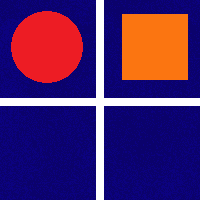
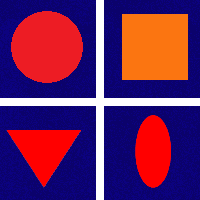
atakowanie 3

Changed region(s): [[0.03, 0.63, 0.42, 0.93], [0.66, 0.57, 0.87, 0.96]]

diff --git a/klient/klient/cPlansza.cpp b/klient/klient/cPlansza.cpp
@@ -234,7 +234,8 @@ void cPlansza::_Dzialaj(int value)
 		if (etapGry == GRA && (bajtyOdebrane > 0))
 		{
 			PrzetworzDane();
-			tabGraczy[0]->PrzyspieszajBohatera(0,0);
+			tabGraczy[wybranyGracz]->PrzyspieszajBohatera(0,0);
+			//tabGraczy[1]->PrzyspieszajBohatera(0,0);
 			//DodajAkcjeDoWyslania();
 			//DodajWiadomoscDoWyslania();
 			WyslijDane();
@@ -286,15 +287,15 @@ void cPlansza::_Klawiatura(unsigned char key, int x, int y)
 		glutTimerFunc(20, Dzialaj, TIMER_KAMERA_SCROLL);
 		break;
 
-	case 'o':
-		tabGraczy[wybranyGracz]->DodajStworka(-900+1800*wybranyGracz, LISTA_STWOREK_KULA);
-		break;
-	case 'p':
-		tabGraczy[wybranyGracz]->DodajStworka(-900+1800*wybranyGracz, LISTA_STWOREK_KWADRAT);
-		break;
-	case 'x':
-		wybranyGracz = !wybranyGracz;
-		break;
+	//case 'o':
+	//	tabGraczy[wybranyGracz]->DodajStworka(-900+1800*wybranyGracz, LISTA_STWOREK_KULA);
+	//	break;
+	//case 'p':
+	//	tabGraczy[wybranyGracz]->DodajStworka(-900+1800*wybranyGracz, LISTA_STWOREK_KWADRAT);
+	//	break;
+	//case 'x':
+	//	wybranyGracz = !wybranyGracz;
+	//	break;
 	case 'c':
 		tabGraczy[wybranyGracz];
 		break;
@@ -462,7 +463,7 @@ void cPlansza::WykonajAkcje(int menu)
 			break;
 
 		case TEKSTURA_MENU_BUDOWA_STWORKA:
-			if (gracz->ZaplacZlotem((menu == 1 ? 30 : (menu == 2 ? 35 : (menu == 3 ? 80 : 220)))))
+			if (gracz->ZaplacZlotem((menu == 1 ? 30 : (menu == 2 ? 35 : ((menu == 3) ? 80 : 150)))))
 			{
 				if (moznaBudowac)
 					gracz->DodajStworka(gracz->x, menu+LISTA_STWOREK_KULA-1);
@@ -539,8 +540,8 @@ void cPlansza::TekstPomocy()
 		case TEKSTURA_MENU_BUDOWA_STWORKA:
 			if (menu == 1) sprintf(ramkaOpisu.tekstPomocy, "Stworek 1 (30$)");
 			if (menu == 2) sprintf(ramkaOpisu.tekstPomocy, "Stworek 2 (35$)");
-			if (menu == 3) sprintf(ramkaOpisu.tekstPomocy, "");
-			if (menu == 4) sprintf(ramkaOpisu.tekstPomocy, "");
+			if (menu == 3) sprintf(ramkaOpisu.tekstPomocy, "Stworek 3 (80$)");
+			if (menu == 4) sprintf(ramkaOpisu.tekstPomocy, "Stworek 4 (150$)");
 			break;
 		case TEKSTURA_MENU_BUDOWA_WIEZY:
 			if (menu == 1) sprintf(ramkaOpisu.tekstPomocy, "Wieza lucznicza (%d$)", cenyWiez[menu-1]);
@@ -1007,7 +1008,41 @@ void cPlansza::UtworzListy()
 		}
 		glEnd();
 	glEndList();
+
+		// STWOREK KWADRAT
+	glGenLists(LISTA_STWOREK_KWADRAT);
+	glNewList(LISTA_STWOREK_KWADRAT, GL_COMPILE);
+	glBegin(GL_POLYGON);
+		for (int i = 0; i < 33; i++)
+		{
+			glVertex2f(-ROZMIAR_STWORKA_KWADRAT,ROZMIAR_STWORKA_KWADRAT);
+			glVertex2f(ROZMIAR_STWORKA_KWADRAT,ROZMIAR_STWORKA_KWADRAT);
+			glVertex2f(ROZMIAR_STWORKA_KWADRAT,-ROZMIAR_STWORKA_KWADRAT);
+			glVertex2f(-ROZMIAR_STWORKA_KWADRAT,-ROZMIAR_STWORKA_KWADRAT);
+		}
+		glEnd();
+	glEndList();
 	
+		// STWOREK TROJKAT
+	glGenLists(LISTA_STWOREK_TROJKAT);
+	glNewList(LISTA_STWOREK_TROJKAT, GL_COMPILE);
+		glBegin(GL_POLYGON);
+			glVertex2f(-ROZMIAR_STWORKA_TROJKAT * 0.866, ROZMIAR_STWORKA_TROJKAT / 2);
+			glVertex2f(ROZMIAR_STWORKA_TROJKAT * 0.866, ROZMIAR_STWORKA_TROJKAT / 2);
+			glVertex2f(0,-ROZMIAR_STWORKA_TROJKAT);
+		glEnd();
+	glEndList();
+
+	// STWOREK JAJO
+	glGenLists(LISTA_STWOREK_JAJO);
+	glNewList(LISTA_STWOREK_JAJO, GL_COMPILE);
+		glBegin(GL_POLYGON);
+			for (int i = 0; i < 33; i++)
+			{
+				glVertex2f(ROZMIAR_STWORKA_JAJO * sin(6.2832*i/33), ROZMIAR_STWORKA_JAJO * 2 * cos(6.2832*i/33));
+			}
+		glEnd();
+	glEndList();
 
 
 }
@@ -1046,6 +1081,8 @@ void cPlansza::TworzTekstury()
 	
 	SOIL_load_OGL_texture("tx\\ikona_stworek1.png", SOIL_LOAD_AUTO, IKONA_STWOREK1, SOIL_FLAG_INVERT_Y);
 	SOIL_load_OGL_texture("tx\\ikona_stworek2.png", SOIL_LOAD_AUTO, IKONA_STWOREK2, SOIL_FLAG_INVERT_Y);
+	SOIL_load_OGL_texture("tx\\ikona_stworek3.png", SOIL_LOAD_AUTO, IKONA_STWOREK3, SOIL_FLAG_INVERT_Y);
+	SOIL_load_OGL_texture("tx\\ikona_stworek4.png", SOIL_LOAD_AUTO, IKONA_STWOREK4, SOIL_FLAG_INVERT_Y);
 
 
 

diff --git a/serwer/serwer/gra/cZamek.cpp b/serwer/serwer/gra/cZamek.cpp
@@ -116,7 +116,7 @@ bool cZamek::Atakuj()
             int nrDoAtakowania = -1;
             for (int i = 0; i < kogo->tabStworkow.size(); i++)
             {
-                float odleglosc = abs(x - kogo->tabStworkow[i]->x);
+                float odleglosc = abs(wieza->x - kogo->tabStworkow[i]->x);
                 if (odleglosc < odlegloscMin)
                 {
                     odlegloscMin = odleglosc;
@@ -126,15 +126,15 @@ bool cZamek::Atakuj()
 
             if (odlegloscMin < wieza->zasieg)          // jezeli w poblizu stworek - atakuj
             {
-                if (turDoAtaku > 0)        // ograniczenie czestosci strzelania
+                if (wieza->turDoAtaku > 0)        // ograniczenie czestosci strzelania
                 {
-                    turDoAtaku--;
+                    wieza->turDoAtaku--;
                     return true;
                 }
                 else
                 {
                     kogo->tabStworkow[nrDoAtakowania]->poziomZycia -= wieza->obrazenia / kogo->tabStworkow[nrDoAtakowania]->mnoznikZycia;
-                    turDoAtaku = 1000.0/szybkoscAtaku;
+                    wieza->turDoAtaku = 1000.0/wieza->szybkoscAtaku;
 
                     if (kogo->tabStworkow[nrDoAtakowania]->poziomZycia < 0) this->doswiadczenie++;
                     if (doswiadczenie > 25)
@@ -152,17 +152,17 @@ bool cZamek::Atakuj()
                 {
                     if (kogo->tabBohaterow[i]->zywy)
                     {
-                        if (zasieg > abs(x - kogo->tabBohaterow[i]->x))
+                        if (zasieg > abs(wieza->x - kogo->tabBohaterow[i]->x))
                         {
-                            if (turDoAtaku > 0)        // ograniczenie czestosci strzelania
+                            if (wieza->turDoAtaku > 0)        // ograniczenie czestosci strzelania
                             {
-                                turDoAtaku--;
+                                wieza->turDoAtaku--;
                                 return true;
                             }
                             else
                             {
                                 kogo->tabBohaterow[i]->poziomZycia -= wieza->obrazenia / kogo->tabBohaterow[i]->mnoznikZycia;
-                                turDoAtaku = 1000.0/szybkoscAtaku;
+                                wieza->turDoAtaku = 1000.0/wieza->szybkoscAtaku;
                                 return true;
                             }
                         }

diff --git a/klient/klient/cStworek.cpp b/klient/klient/cStworek.cpp
@@ -12,9 +12,10 @@ cStworek::cStworek(float _x, float _z, int _typStworka, int _wlasciciel, int lev
 	wlasciciel = _wlasciciel;
 	rozmiar = 3;	
 	typStworka = _typStworka;
-	kolor.r = 1;
+	kolor.r = (1+wlasciciel)/2;
 	kolor.g = 0;
-	kolor.b = 0;
+	kolor.b = (-1+wlasciciel)/(-2);
+	
 	level = levelStworkow;
 
 	kat = 0;
@@ -23,19 +24,35 @@ cStworek::cStworek(float _x, float _z, int _typStworka, int _wlasciciel, int lev
 	{
 	case LISTA_STWOREK_KULA:
 		wysokosc = ROMIAR_STWORKA_KULA;
-		predkosc = 50;
-		mnoznikZycia = 0.6;
+		predkosc = 55;
+        mnoznikZycia = 2.1;
 		zasieg = 35;
 		obrazenia = 12;
-		szybkoscAtaku = 40;
+        szybkoscAtaku = 30;
 		break;
 	case LISTA_STWOREK_KWADRAT:
 		wysokosc = 35;
-		predkosc = 30;
-		mnoznikZycia = 0.4;
-		zasieg = 65;
+		predkosc = 35;
+        mnoznikZycia = 2.6;
+		zasieg = 55;
 		obrazenia = 15;
 		szybkoscAtaku = 15; 
+		break;
+    case LISTA_STWOREK_TROJKAT:
+		wysokosc = 1.5 * ROZMIAR_STWORKA_TROJKAT;
+		predkosc = 100;
+		mnoznikZycia = 1.6;
+		zasieg = 85;
+		obrazenia = 8;
+		szybkoscAtaku = 65; 
+		break;
+	case LISTA_STWOREK_JAJO:
+		wysokosc = 20;
+		predkosc = 70;
+		mnoznikZycia = 4;
+		zasieg = 50;
+		obrazenia = 85;
+		szybkoscAtaku = 20; 
 		break;
 	}
 
@@ -61,8 +78,8 @@ void cStworek::Rysuj()
 		glTranslatef(x, y, z);
 		glRotatef(kat, 0, 0, 1);
 		glColor3f(kolor.r, kolor.g, kolor.b);  //todo
-		//glCallList(typStworka);
-		glCallList(LISTA_STWOREK_KULA);
+		glCallList(typStworka);
+		//glCallList(LISTA_STWOREK_KULA);
 
 		RysujPasekZycia();
 

diff --git a/serwer/serwer/gra/cStworek.cpp b/serwer/serwer/gra/cStworek.cpp
@@ -22,7 +22,7 @@ cStworek::cStworek(float _x, float _z, int _typStworka, int _wlasciciel, int lev
 	{
 	case LISTA_STWOREK_KULA:
 		wysokosc = ROMIAR_STWORKA_KULA;
-		predkosc = 50;
+        predkosc = 55;
         mnoznikZycia = 2.1;
 		zasieg = 35;
 		obrazenia = 12;
@@ -30,12 +30,28 @@ cStworek::cStworek(float _x, float _z, int _typStworka, int _wlasciciel, int lev
 		break;
 	case LISTA_STWOREK_KWADRAT:
 		wysokosc = 35;
-		predkosc = 30;
+        predkosc = 35;
         mnoznikZycia = 2.6;
 		zasieg = 55;
 		obrazenia = 15;
 		szybkoscAtaku = 15; 
 		break;
+    case LISTA_STWOREK_TROJKAT:
+        wysokosc = 1.5 * ROZMIAR_STWORKA_TROJKAT;
+        predkosc = 100;
+        mnoznikZycia = 1.6;
+        zasieg = 85;
+        obrazenia = 8;
+        szybkoscAtaku = 65;
+        break;
+    case LISTA_STWOREK_JAJO:
+        wysokosc = 20;
+        predkosc = 70;
+        mnoznikZycia = 4;
+        zasieg = 50;
+        obrazenia = 85;
+        szybkoscAtaku = 20;
+        break;
 	}
 
     predkosc += predkosc*levelStworkow*1.03+1;
@@ -61,11 +77,11 @@ void cStworek::Ruszaj()
 	int xTab = Plansza->XDoTab(x);
 	float dx = 0;
 
-	if (typStworka == LISTA_STWOREK_KWADRAT)
+    if (typStworka == LISTA_STWOREK_KWADRAT || typStworka == LISTA_STWOREK_JAJO)
 	{
 		dx = wlasciciel * predkosc;
 	}
-	else if (typStworka == LISTA_STWOREK_KULA)
+    else if (typStworka == LISTA_STWOREK_KULA || typStworka == LISTA_STWOREK_TROJKAT)
 	{
 		dx = Plansza->tabPol[xTab-30] - Plansza->tabPol[xTab+30];
 

diff --git a/klient/klient/naglowki.h b/klient/klient/naglowki.h
@@ -87,17 +87,19 @@ extern cPlansza* Plansza;
 #define ZAKRES_KLIKNIECIE 3.5   
 
 #define LISTA_PUNKT_STABILNY 1
-#define LISTA_STWOREK_KULA 125
-#define LISTA_STWOREK_KWADRAT 126
-#define LISTA_STWOREK_TRZY 127
-#define LISTA_STWOREK_CZTERY 128
+#define LISTA_STWOREK_KULA 124
+#define LISTA_STWOREK_KWADRAT 125
+#define LISTA_STWOREK_TROJKAT 126
+#define LISTA_STWOREK_JAJO 127
 #define LISTA_BOHATER1 2
 #define LISTA_BOHATER2 3
 
 
 #define ROZMIAR_PUNKTUSTABILNEGO 2
 #define ROMIAR_STWORKA_KULA 3
-
+#define ROZMIAR_STWORKA_KWADRAT 3
+#define ROZMIAR_STWORKA_TROJKAT 3
+#define ROZMIAR_STWORKA_JAJO 2
 
 // bohater 1
 #define BOHATER_PROMIEN1 1.5
@@ -131,8 +133,10 @@ extern cPlansza* Plansza;
 #define IKONA_BOHATER1 121
 #define IKONA_BOHATER2 122
 
-#define IKONA_STWOREK1 125
-#define IKONA_STWOREK2 126
+#define IKONA_STWOREK1 124
+#define IKONA_STWOREK2 125
+#define IKONA_STWOREK3 126
+#define IKONA_STWOREK4 127
 
 struct sKOLOR
 {

diff --git a/serwer/serwer/gra/naglowki.h b/serwer/serwer/gra/naglowki.h
@@ -75,17 +75,18 @@ extern cPlansza* Plansza;
 #define ZAKRES_KLIKNIECIE 3.5   
 
 #define LISTA_PUNKT_STABILNY 1
-#define LISTA_STWOREK_KULA 125
-#define LISTA_STWOREK_KWADRAT 126
-#define LISTA_STWOREK_TRZY 127
-#define LISTA_STWOREK_CZTERY 128
+#define LISTA_STWOREK_KULA 124
+#define LISTA_STWOREK_KWADRAT 125
+#define LISTA_STWOREK_TROJKAT 126
+#define LISTA_STWOREK_JAJO 127
 #define LISTA_BOHATER1 2
 #define LISTA_BOHATER2 3
 
 
 #define ROZMIAR_PUNKTUSTABILNEGO 2
 #define ROMIAR_STWORKA_KULA 3
-
+#define ROZMIAR_STWORKA_TROJKAT 3
+#define ROZMIAR_STWORKA_JAJO 2
 
 // bohater 1
 #define BOHATER_PROMIEN1 1.5
@@ -119,8 +120,6 @@ extern cPlansza* Plansza;
 #define IKONA_BOHATER1 121
 #define IKONA_BOHATER2 122
 
-#define IKONA_STWOREK1 125
-#define IKONA_STWOREK2 126
 
 
 

diff --git a/klient/klient/cBohater.cpp b/klient/klient/cBohater.cpp
@@ -16,16 +16,16 @@ cBohater::~cBohater(void)
 
 void cBohater::Awansuj()
 {
-	Plansza->DodajAkcje(0x0B, (char) (Plansza->tabGraczy[0]->wybranyBohater));
+	Plansza->DodajAkcje(0x0B, (char) (Plansza->tabGraczy[Plansza->wybranyGracz]->wybranyBohater));
 	
 }
 void cBohater::ZwiekszMoc()
 {
-	Plansza->DodajAkcje(0x0C, (char) (Plansza->tabGraczy[0]->wybranyBohater));
+	Plansza->DodajAkcje(0x0C, (char) (Plansza->tabGraczy[Plansza->wybranyGracz]->wybranyBohater));
 }
 void cBohater::Teleportuj()
 {
-	Plansza->DodajAkcje(0x0D, (char) (Plansza->tabGraczy[0]->wybranyBohater));
+	Plansza->DodajAkcje(0x0D, (char) (Plansza->tabGraczy[Plansza->wybranyGracz]->wybranyBohater));
 }
 
 

diff --git a/serwer/serwer/gra/cGracz.cpp b/serwer/serwer/gra/cGracz.cpp
@@ -45,6 +45,7 @@ cGracz::cGracz(float _x, float _y, int _wlascicel)
 
 void cGracz::DodajStworka(int _typStworka)
 {
+
     switch (_typStworka)
     {
     case LISTA_STWOREK_KULA:
@@ -53,11 +54,11 @@ void cGracz::DodajStworka(int _typStworka)
     case LISTA_STWOREK_KWADRAT:
         if(!ZaplacZlotem(35)) return;
         break;
-    case LISTA_STWOREK_TRZY:
+    case LISTA_STWOREK_TROJKAT:
         if(!ZaplacZlotem(80)) return;
         break;
-    case LISTA_STWOREK_CZTERY:
-        if(!ZaplacZlotem(220)) return;
+    case LISTA_STWOREK_JAJO:
+        if(!ZaplacZlotem(150)) return;
         break;
     }
 

diff --git a/serwer/serwer/glowneokno.cpp b/serwer/serwer/glowneokno.cpp
@@ -105,7 +105,7 @@ void GlowneOkno::SterujGraczem()
 
     if (losowa < 30)
     {
-        Plansza->tabGraczy[1]->DodajStworka(rand()%2 + 125);
+        Plansza->tabGraczy[1]->DodajStworka(rand()%2 + LISTA_STWOREK_KULA);
     }
 
     switch (losowa)
